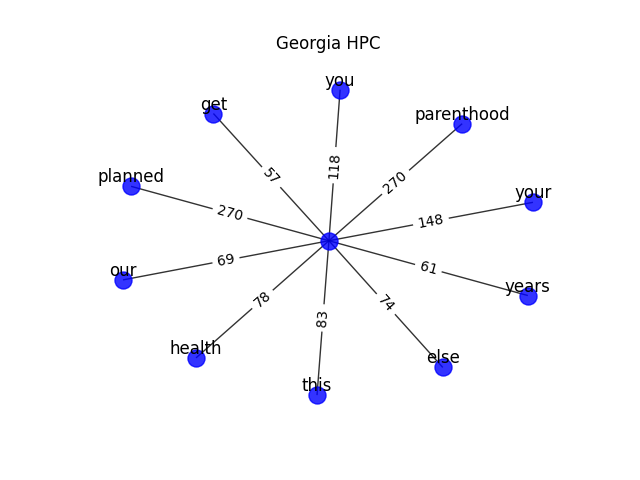
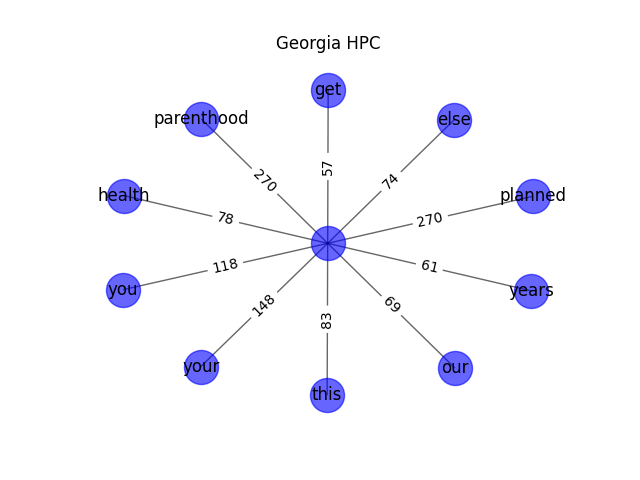
cosmetic changes

diff --git a/truth_inquery/crawler/graphs.py b/truth_inquery/crawler/graphs.py
@@ -10,12 +10,12 @@ from crawler import CPCIN, CPCOUT, HPCIN, HPCOUT, STATES
 random.seed(1234)
 OPTIONAL = {
     'CPC':{'node_color': 'red',
-           'alpha': 0.8,
-           'node_size': 150,
+           'alpha': 0.6,
+           'node_size': 600,
            'width': 1},
     'HPC':{'node_color': 'blue',
-           'alpha': 0.8,
-           'node_size': 150,
+           'alpha': 0.6,
+           'node_size': 600,
            'width': 1}
     }
 
@@ -147,7 +147,7 @@ if __name__ == "__main__":
     plt.title(STATES[state]+" "+clinic)
     nx.draw(G, pos, **OPTIONAL[clinic])
     nx.draw_networkx_labels(G, pos, nx.get_node_attributes(G, 'label'), \
-                                    verticalalignment='bottom')
+                                    verticalalignment='center')
     nx.draw_networkx_edge_labels(G,pos,edge_labels=nx.get_edge_attributes(G,'label'))
 
     plt.savefig(filename)
